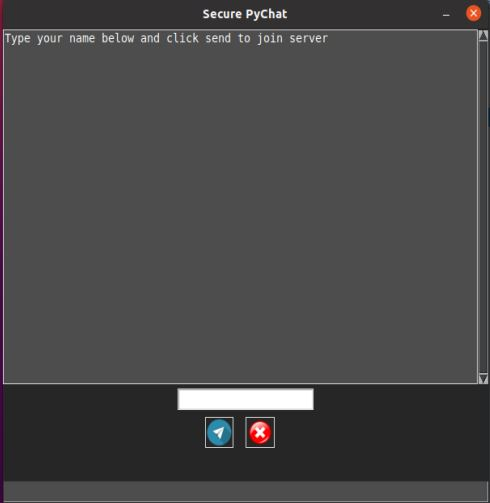
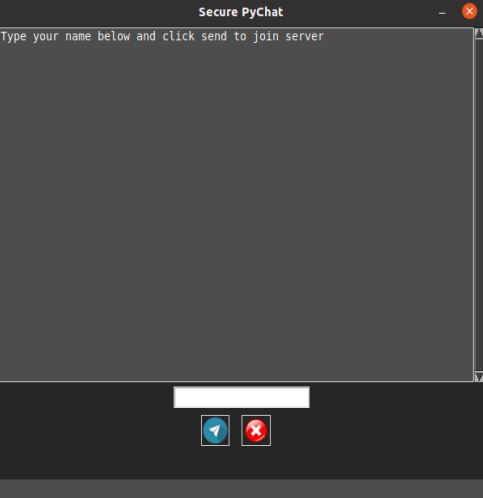
Adding image and rest of README

Changed region(s): [[0.0, 0.0, 1.0, 1.0]]

diff --git a/README.md b/README.md
@@ -6,10 +6,12 @@ Project name and Summary: SecurePyChat - A end-to-end Encrypted Chat Program in 
 
 Heroku Link to Site: [to be added in future edition]
 
+To start project, pull code from this Github Repository. Ensure you are using a code editor like PyCharm or Visual Studio Code. Ensure you have up-to-date packages. Check 'requirements.txt' and download any applicable add-ons. Run server first, then client. If ports get hung, change host to different IP (i.e. 127.0.0.1 to 127.0.1.1)
+
 # Table of Contents
 
 - [Screenshots](#screenshots)
-- [Coding-Requirements-Hit](#Project Requirements Hit)
+- [Project-Requirements-Hit](#Project-Requirements-Hit)
 - [Technologies-Used](#Technologies-Used)
 - [Credits](#Credits)
 
@@ -19,31 +21,12 @@ Heroku Link to Site: [to be added in future edition]
    <br>
    ![Screenshot 1](./public/images/screenshot1.jpg)
 
-2. Screenshot of App 2
-   <br>
-   ![Screenshot 2](./WIMC/front-end/public/images/screenshot2.jpg)
+## Project-Requirements-Hit
 
-3. Screenshot of App 3
-   <br>
-   ![Screenshot 3](./WIMC/front-end/public/images/screenshot3.jpg)
-
-4. Screenshot of App 4
-   <br>
-   ![Screenshot 4](./WIMC/front-end/public/images/screenshot4.jpg)
-
-## Project Requirements Hit
-
-[x] Must use ReactJS in some way (even if minimal) <br>
-[x] Must use a Node and Express Web Server <br>
-[x] Must be backed by a MySQL or MongoDB Database with a Sequelize or Mongoose ORM <br>
-[x] Must have both GET and POST routes for retrieving and adding new data <br>
-[x] Must be deployed using Heroku (with Data) <br>
-[x] Must utilize at least two libraries, packages, or technologies that we haven't discussed <br>
-[x] Must allow for or involve the authentication of users in some way <br>
-[x] Must have a polished frontend/UI <br>
-[x] Must have folder structure that meets MVC Paradigm <br>
-[x] Must meet good quality coding standards (indentation, scoping, naming) <br>
-[x] Must not expose sensitive API key information on the server <br>
+[x] Deliverable 1: A Project Plan to add your functional application to the baseline project <br>
+[x] Deliverable 2: Final Project Report _CANCELLED_ <br>
+[x] Deliverable 3: Working Source Code (Hosted on GitHub) <br>
+[x] Deliverable 4: Prepare a viewable presentation based on your project report <br>
 
 ## Technologies-Used
 
@@ -58,6 +41,10 @@ Requirements.txt Packages
 - MarkupSafe=2.1.1 <br>
 - Werkzeug==2.1.1 <br>
 - zipp==3.8.0 <br>
+- Heroku <br>
+- Python3 <br>
+- tkinter
+- PyCharm Community Edition 2021.3.3
   <br> <br>
 
 ## Credits
